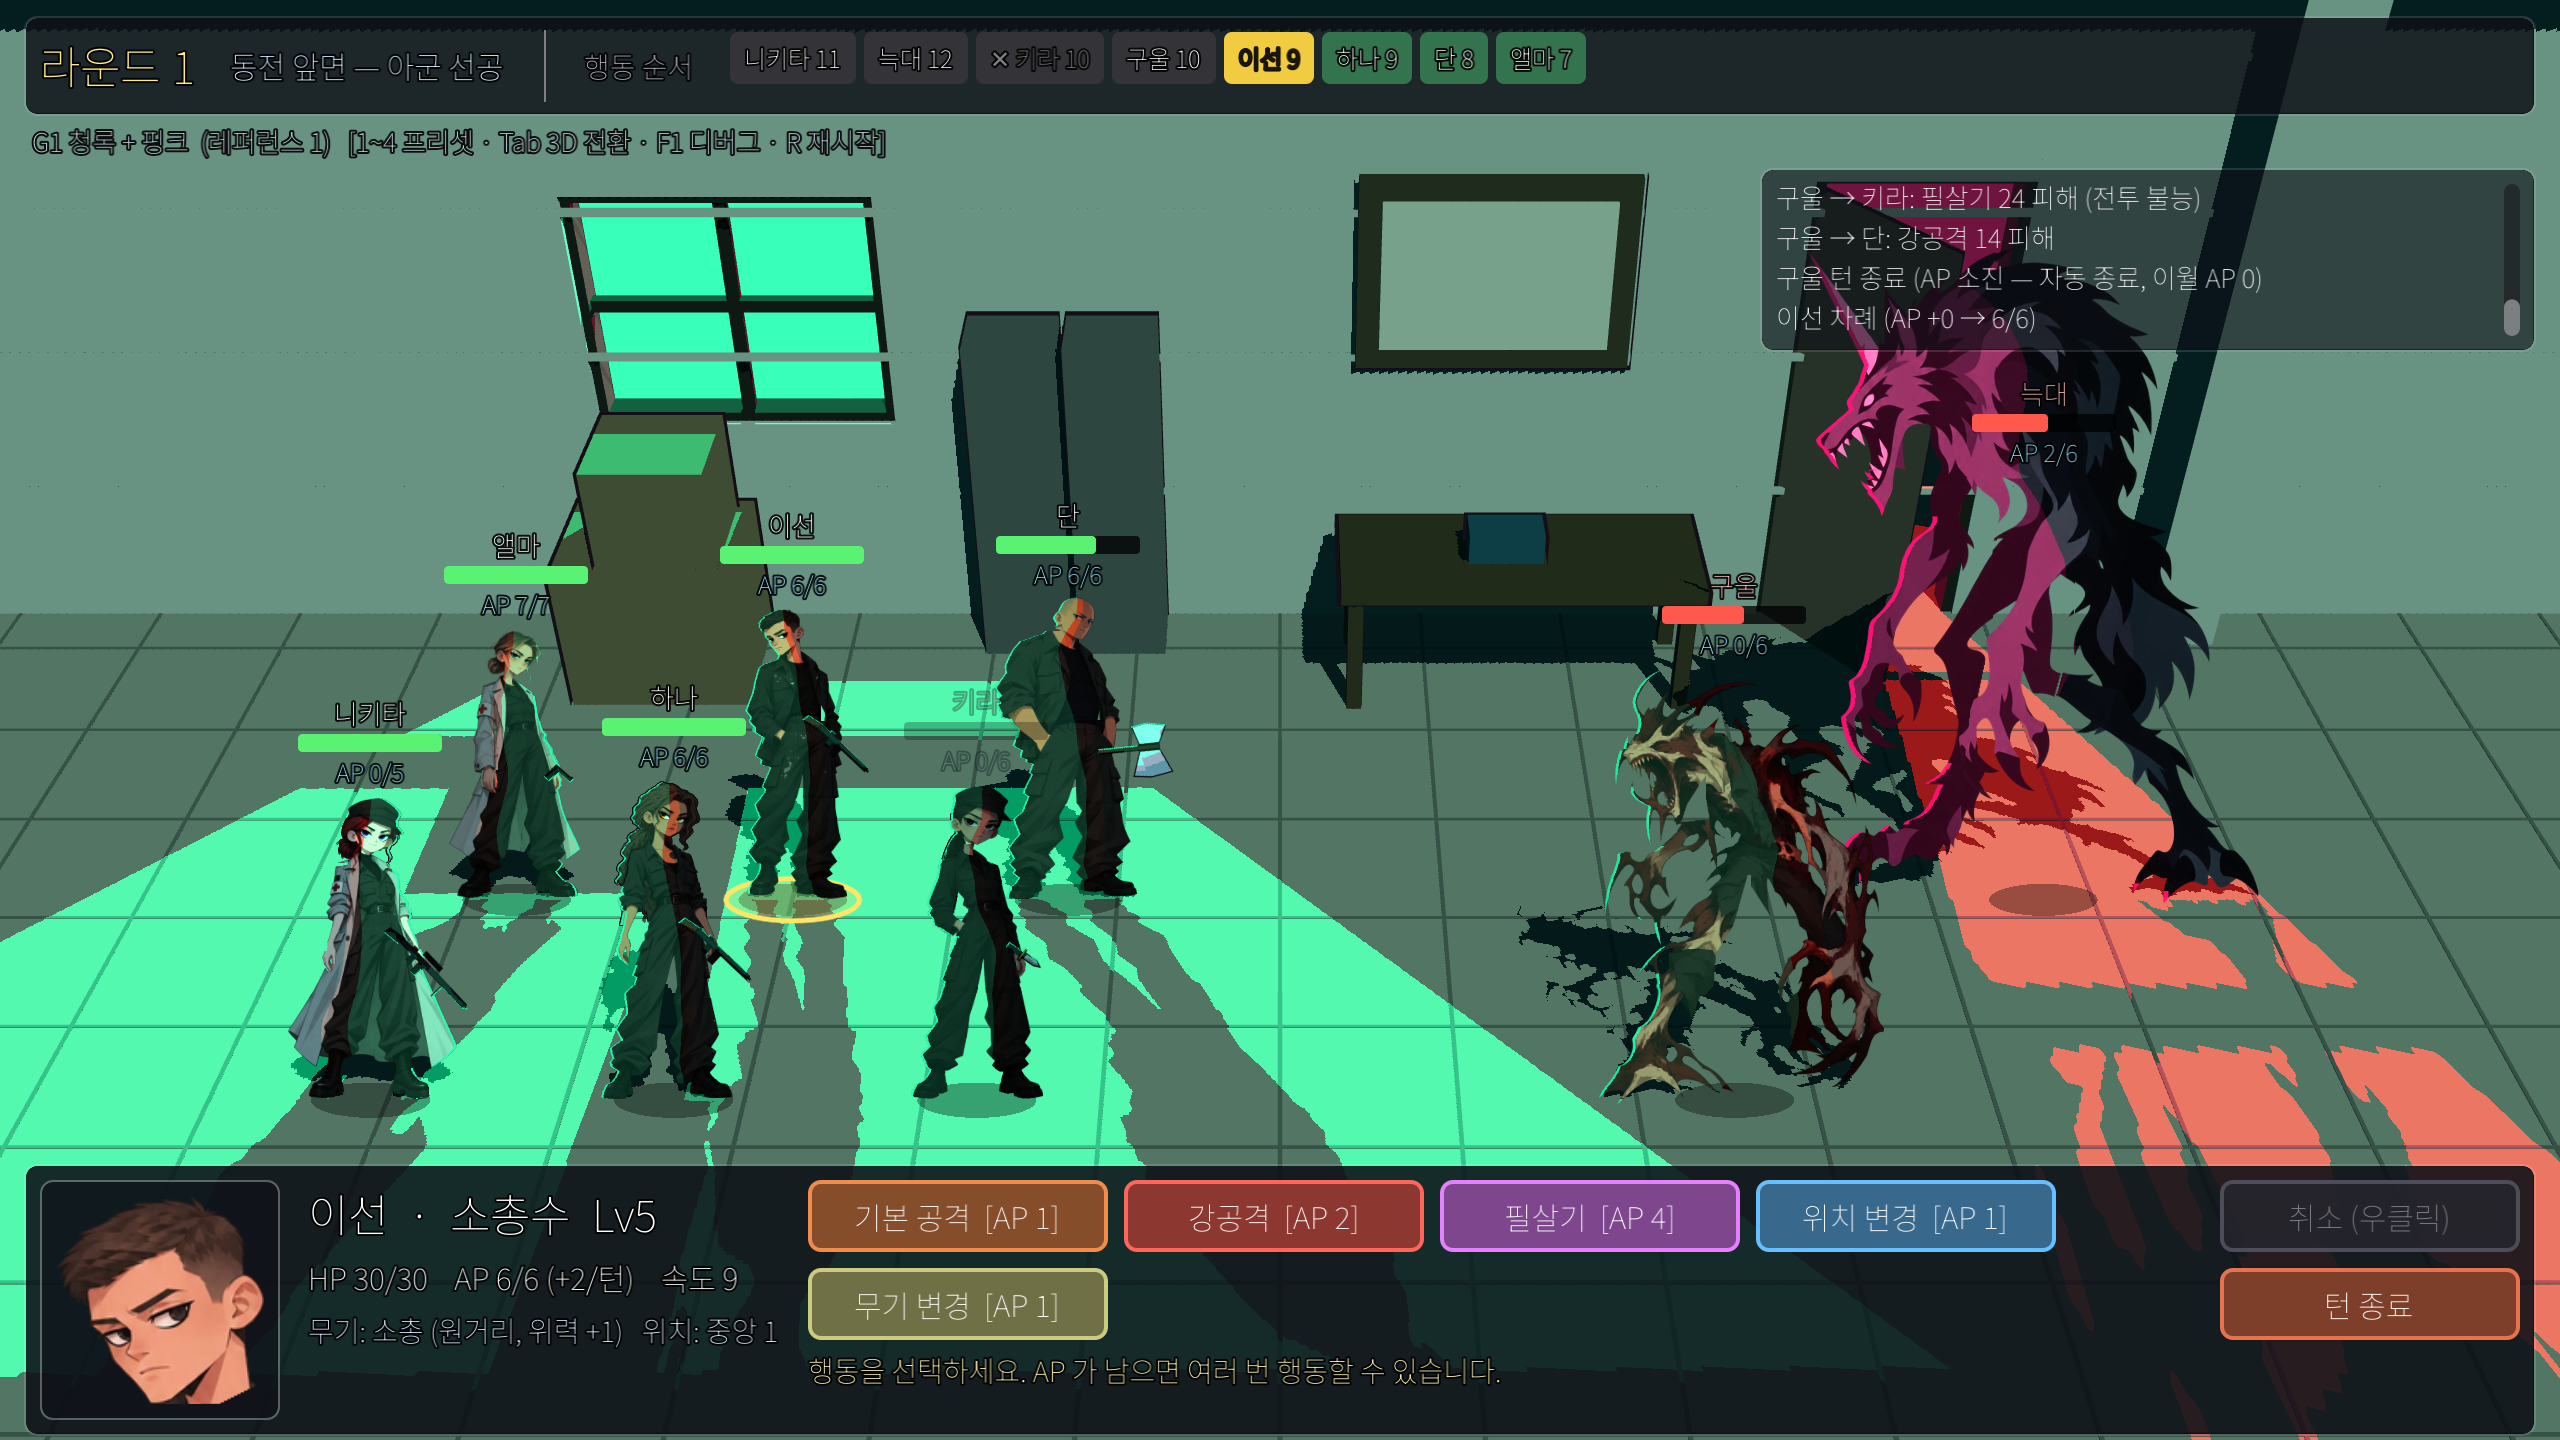
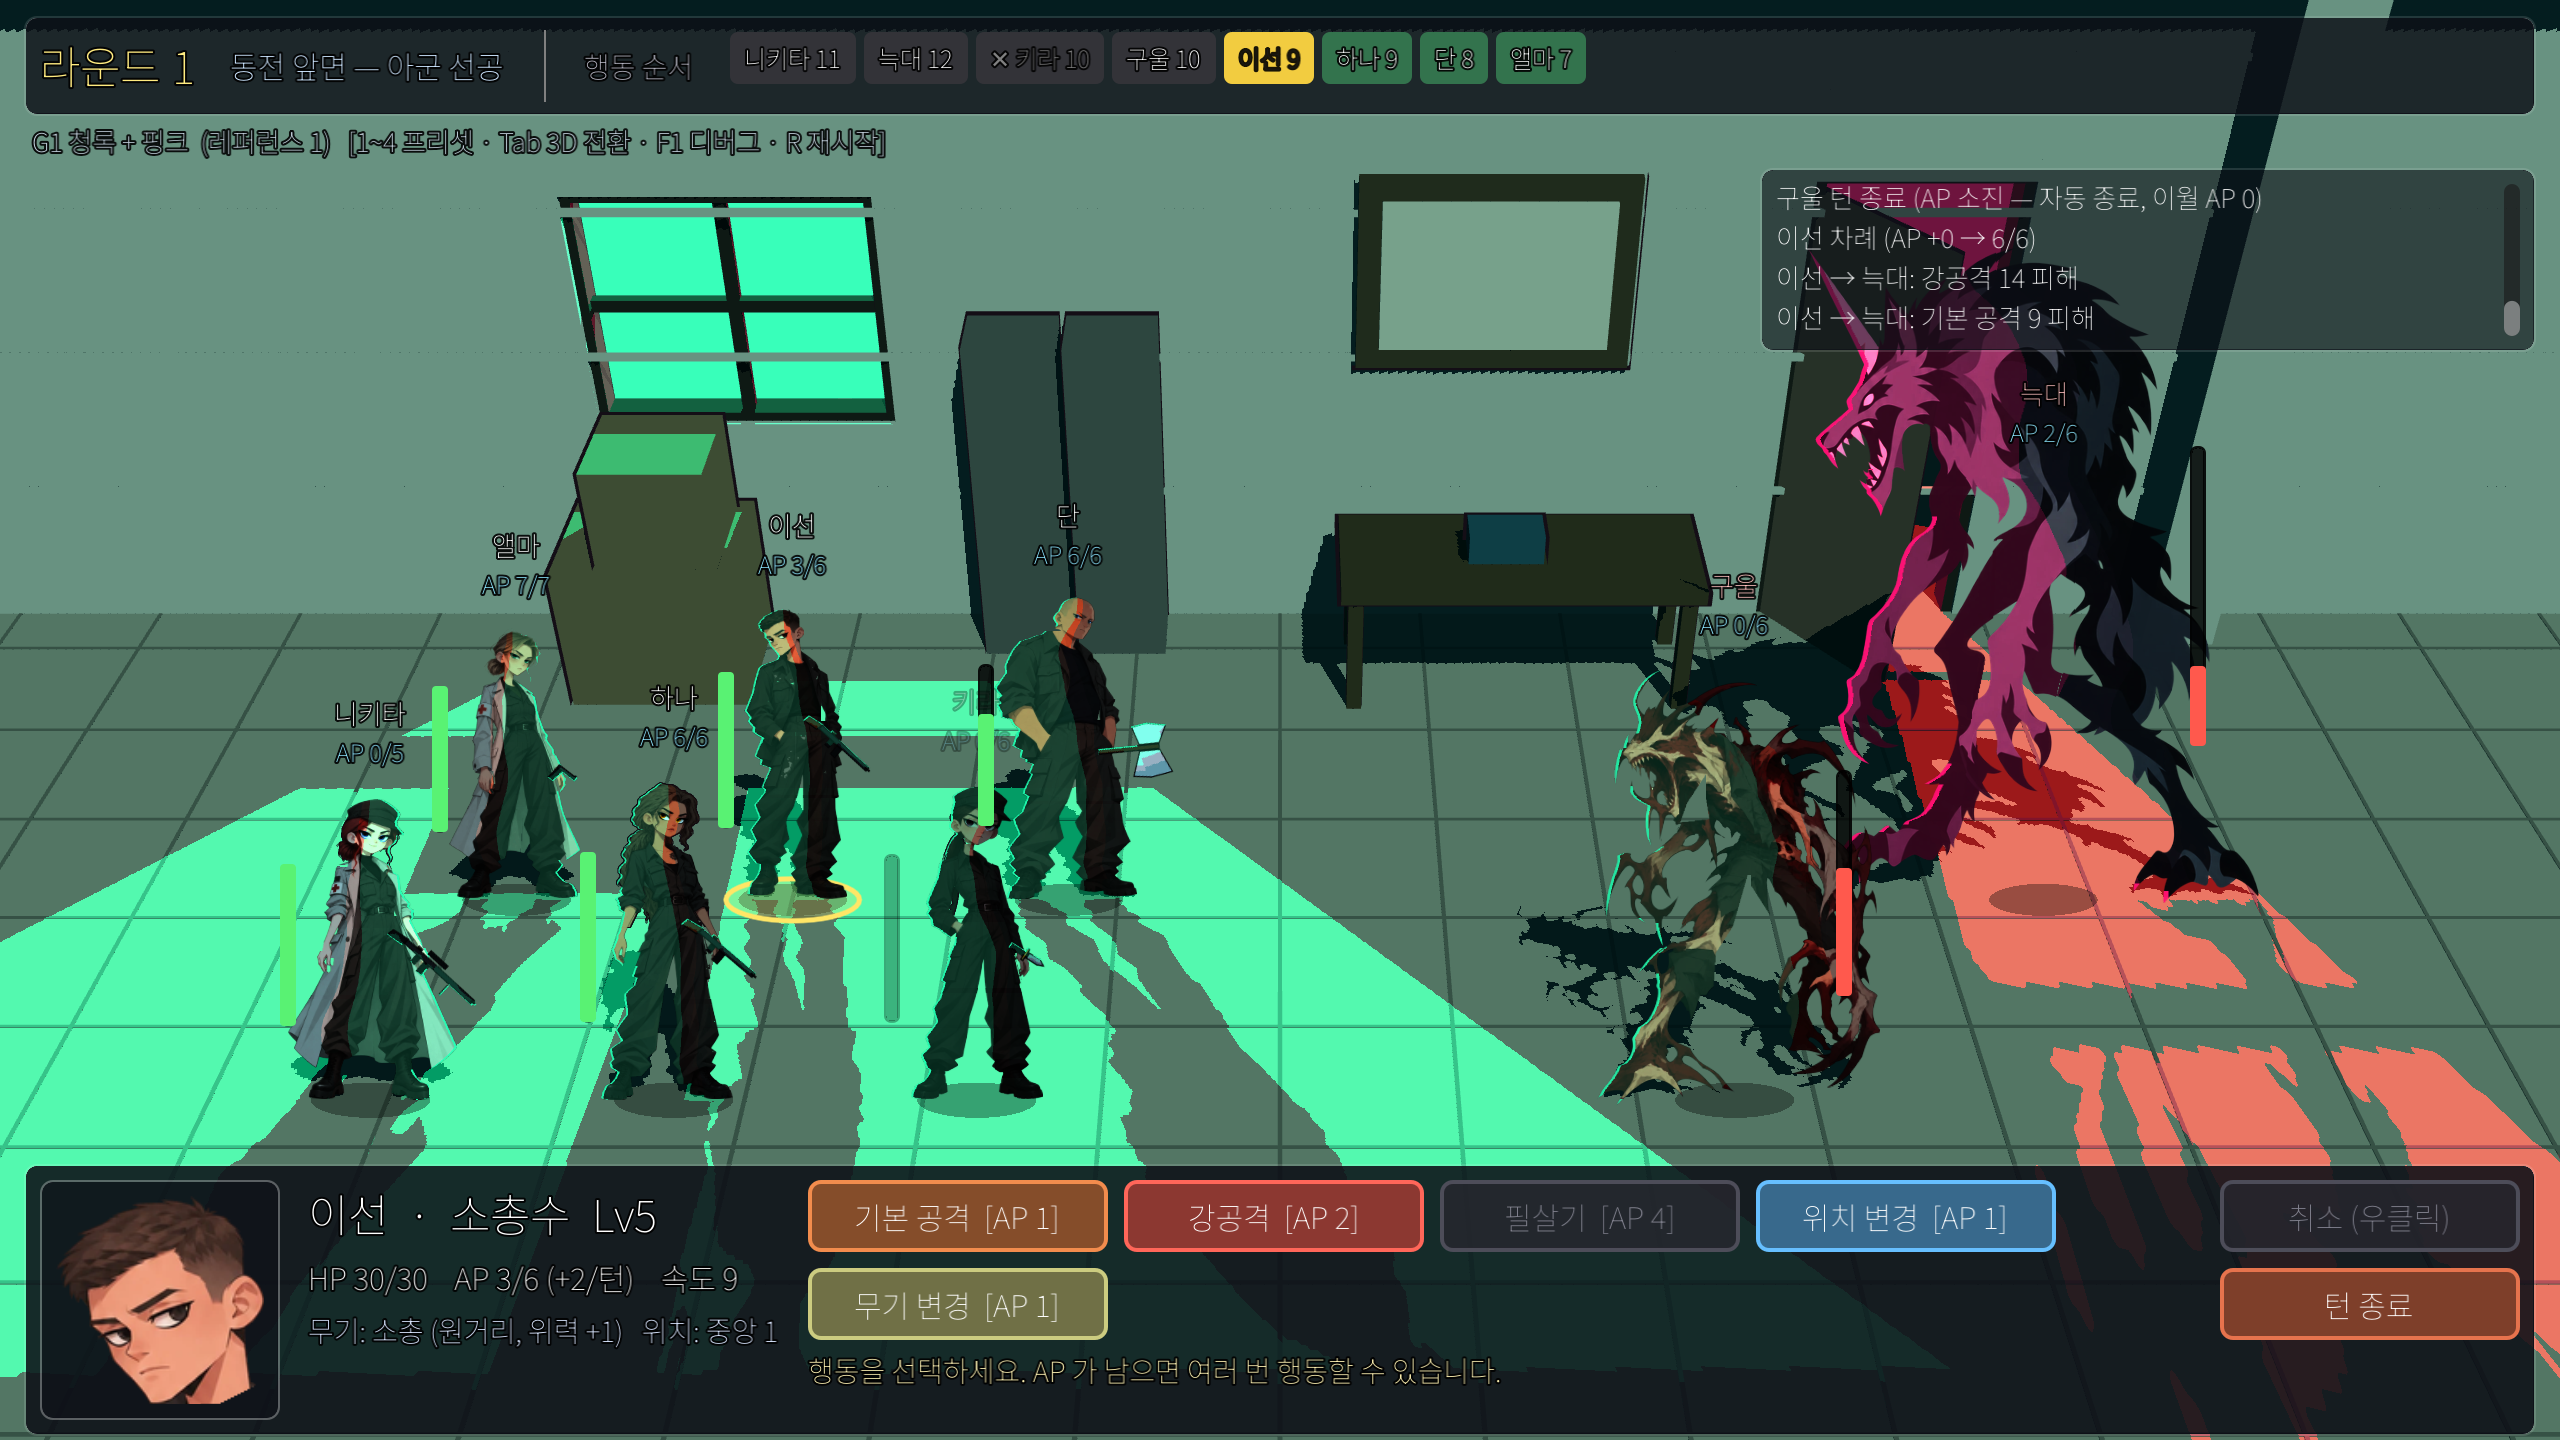
체력 바를 캐릭터 등 뒤 세로 바로
- HUD: 체력 ProgressBar 를 머리 위 가로 바에서 등 뒤 세로 바(아래→위)로.
  이름·AP 는 머리 위 그대로
- 뷰: get_unit_back_bar_rect — 발 위치·화면 키·원화 몸의 등 쪽 가장자리(리그 파츠 범위,
  키의 20% 이내)로 바 위치 계산. 아군은 왼쪽, 적은 오른쪽이 등

Claude-Session: https://claude.ai/code/session_014aytw3hj7boqn3SZ5GP5ti

diff --git a/docs/design/00_decision_log_v1_0.md b/docs/design/00_decision_log_v1_0.md
@@ -26,6 +26,7 @@
 - 큰 몸집 규칙: 한 유닛이 같은 줄(index)의 연속한 두 열을 차지할 수 있다 (`row_span`). 살아 있는 동안 두 열 모두에 있는 것으로 보아
   전방을 막고(근접 대상), 자리 이동·교환 불가, 쓰러지면 두 칸 모두 빈다. 화면에서는 두 칸의 가운데에 선다.
   앨마 = 금갈색 올림머리·밝은 회색 롱코트(적십자 완장, 의무병), 이선 = 짧은 갈색 머리·짙은 재킷(양손 주머니), 단 = 민머리·큰 체격·소매 걷은 재킷(양손 주머니).
+- 체력 바는 **캐릭터 등 뒤의 세로 바** (아래에서 위로 참, 아군은 왼쪽·적은 오른쪽). 이름·AP 는 머리 위 유지 (2026-10-25).
 - 줌인 중에도 주변 캐릭터를 **투명하게 하지 않음** (전투 불능도 어둡게만, 불투명).
 - 바닥 그림자는 **캐릭터 모양** (원화 실루엣을 3D 판으로 세워 실제 광원으로 드리움). 캡슐 그림자 폐기.
 
